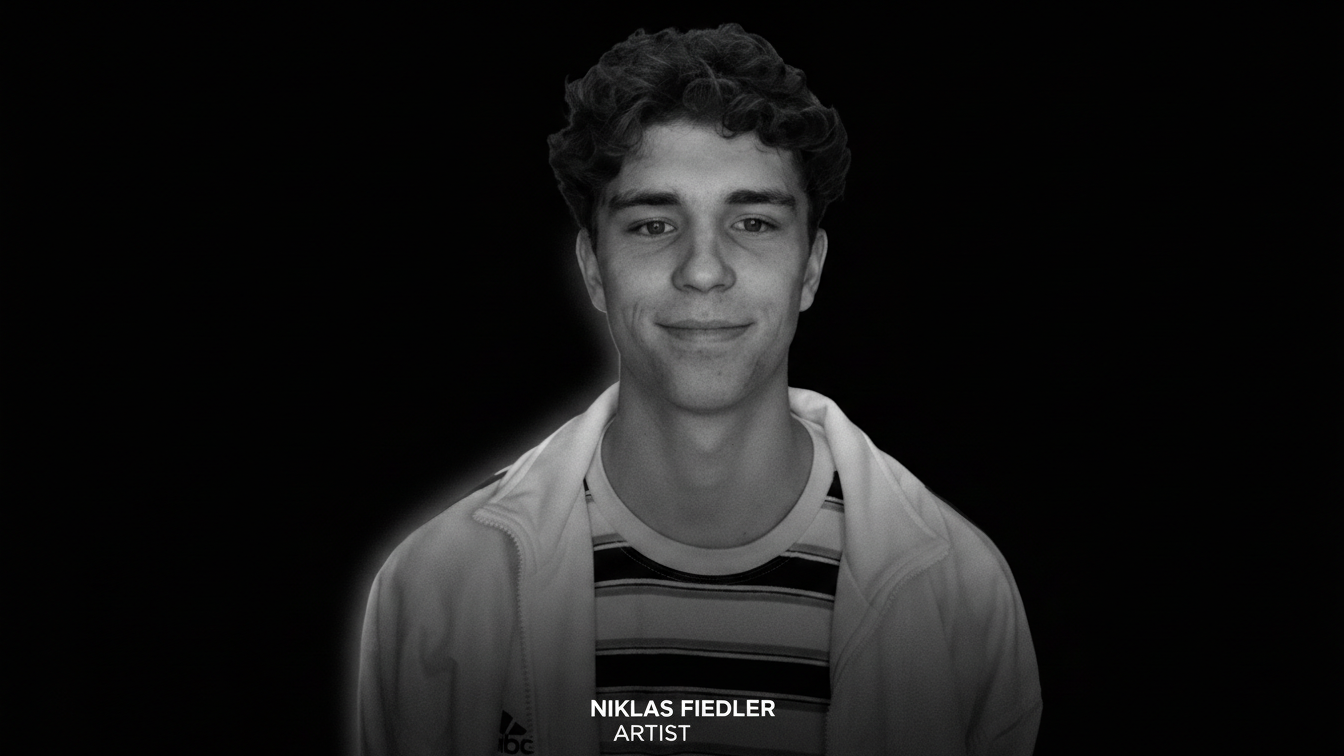
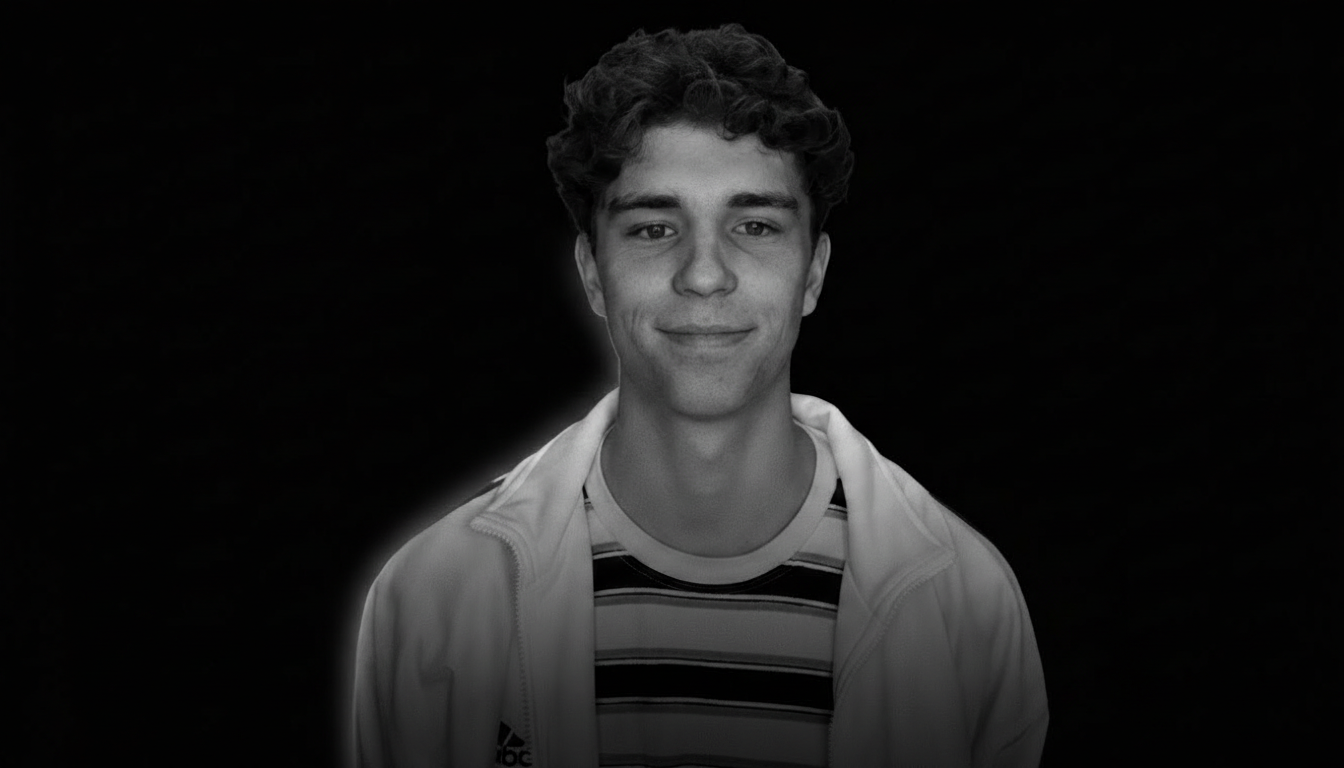
v1.8.0 - Refined Focus: TranslateY Animation & Blue Tint

diff --git a/app/page.tsx b/app/page.tsx
@@ -447,17 +447,20 @@ export default function Home() {
                         {/* TILE 2: ARTIST (NIKLAS) - SPECIAL LAYOUT */}
                         <SpotlightCard className="h-[450px] md:h-full group overflow-hidden bg-[#0a0a0a]">
 
+                            {/* Blue Theme Gradient (Match Design Tile) */}
+                            <div className="absolute inset-0 bg-gradient-to-br from-blue-900/10 to-transparent pointer-events-none z-10" />
+
                             {/* 1. FULL IMAGE BACKGROUND */}
                             <div className="absolute inset-0 w-full h-full z-0">
                                 <img
-                                    src="/sequence/Niklas/image.png"
+                                    src="/sequence/Niklas/image.png?v=2"
                                     alt="Niklas Fiedler"
                                     loading="lazy"
                                     decoding="async"
-                                    className="w-full h-full object-cover object-[50%_35%] group-hover:object-[50%_5%] group-hover:scale-105 transition-all duration-700 ease-out opacity-80 group-hover:opacity-100 grayscale"
+                                    className="w-full h-full object-cover object-[50%_35%] group-hover:translate-y-[15%] group-hover:scale-105 transition-all duration-700 ease-out opacity-80 group-hover:opacity-100 grayscale"
                                 />
-                                {/* subtle gradient overlay for text readability */}
-                                <div className="absolute inset-0 bg-gradient-to-b from-black/70 via-transparent to-black/70 z-10" />
+                                {/* subtle gradient overlay for text readability - Softened to 60% */}
+                                <div className="absolute inset-0 bg-gradient-to-b from-black/60 via-transparent to-black/60 z-10" />
                             </div>
 
                             {/* 2. TEXT CONTENT OVERLAY (Top Aligned) */}
@@ -590,7 +593,7 @@ export default function Home() {
 
                 {/* DEBUG: Version Badge (To confirm deployment) */}
                 <div className="fixed bottom-2 right-2 z-50 text-[10px] text-white/20 font-mono pointer-events-none">
-                    v1.7.0-FocusShift
+                    v1.8.0-RefinedFocus
                 </div>
             </div >
         </CartProvider >
